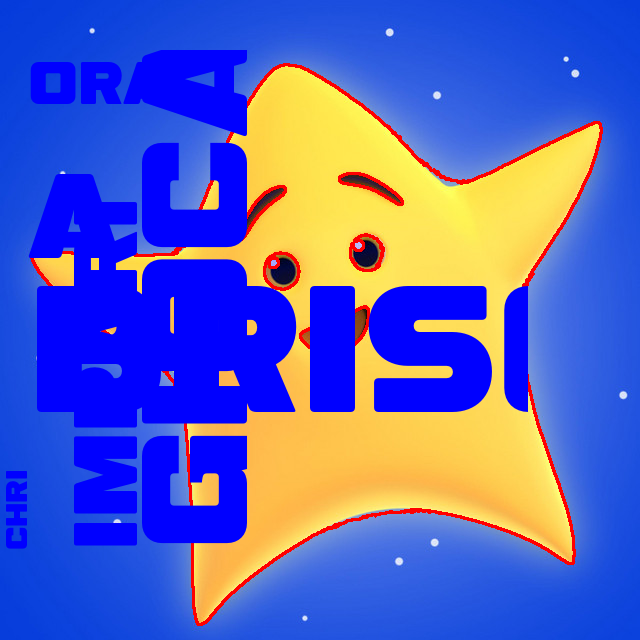
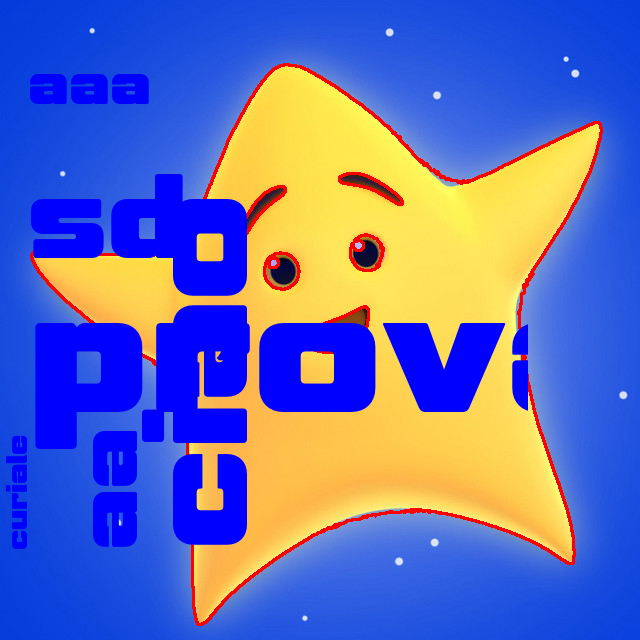
Diario + Prima idea per algoritmo per il testo nelle immagini

Changed region(s): [[0.0, 0.0625, 0.8438, 0.875], [0.3438, 0.8438, 0.375, 0.875]]

diff --git a/5_Applicativo/main.py b/5_Applicativo/main.py
@@ -302,13 +302,15 @@ class ImageModifier(Screen, BoxLayout):
         if(not (os.path.exists(path) and os.path.isfile(path) and filetype.is_image(path))):
             self.imagepath = './pictures/default.png'
         else:
-            self.imagepath = path      
+            self.imagepath = path
+
     def printAllWords(self, img, font, pathTempImage, wordsOrderByEmphasis):
         img = Image.open(pathTempImage)
         fontSize = 20
-        k = 1.5 #moltiplicatore
+        # Moltiplicatore
+        k = 1.5 
         for key, word in enumerate(wordsOrderByEmphasis):
-            #creo un immagine da sovrappore trasparente
+            # Creo un immagine da sovrappore trasparente
             myFont = ImageFont.truetype(FONT_MAPPING[font] , int(fontSize * (key+1) * k))
             tim = Image.new('RGBA', (500,200), (0,0,0,0))
             I1 = ImageDraw.Draw(tim)
@@ -324,6 +326,7 @@ class ImageModifier(Screen, BoxLayout):
                 img.paste(tim, (28, key * 50), tim)
 
         img.save(pathTempImage)
+        
     def createBorderImage(self, tolerance, font, wordsOrderByEmphasis):
         #Logger.info(f'createBorderImage with: {tolerance} on image {self.imagepath}')
 
